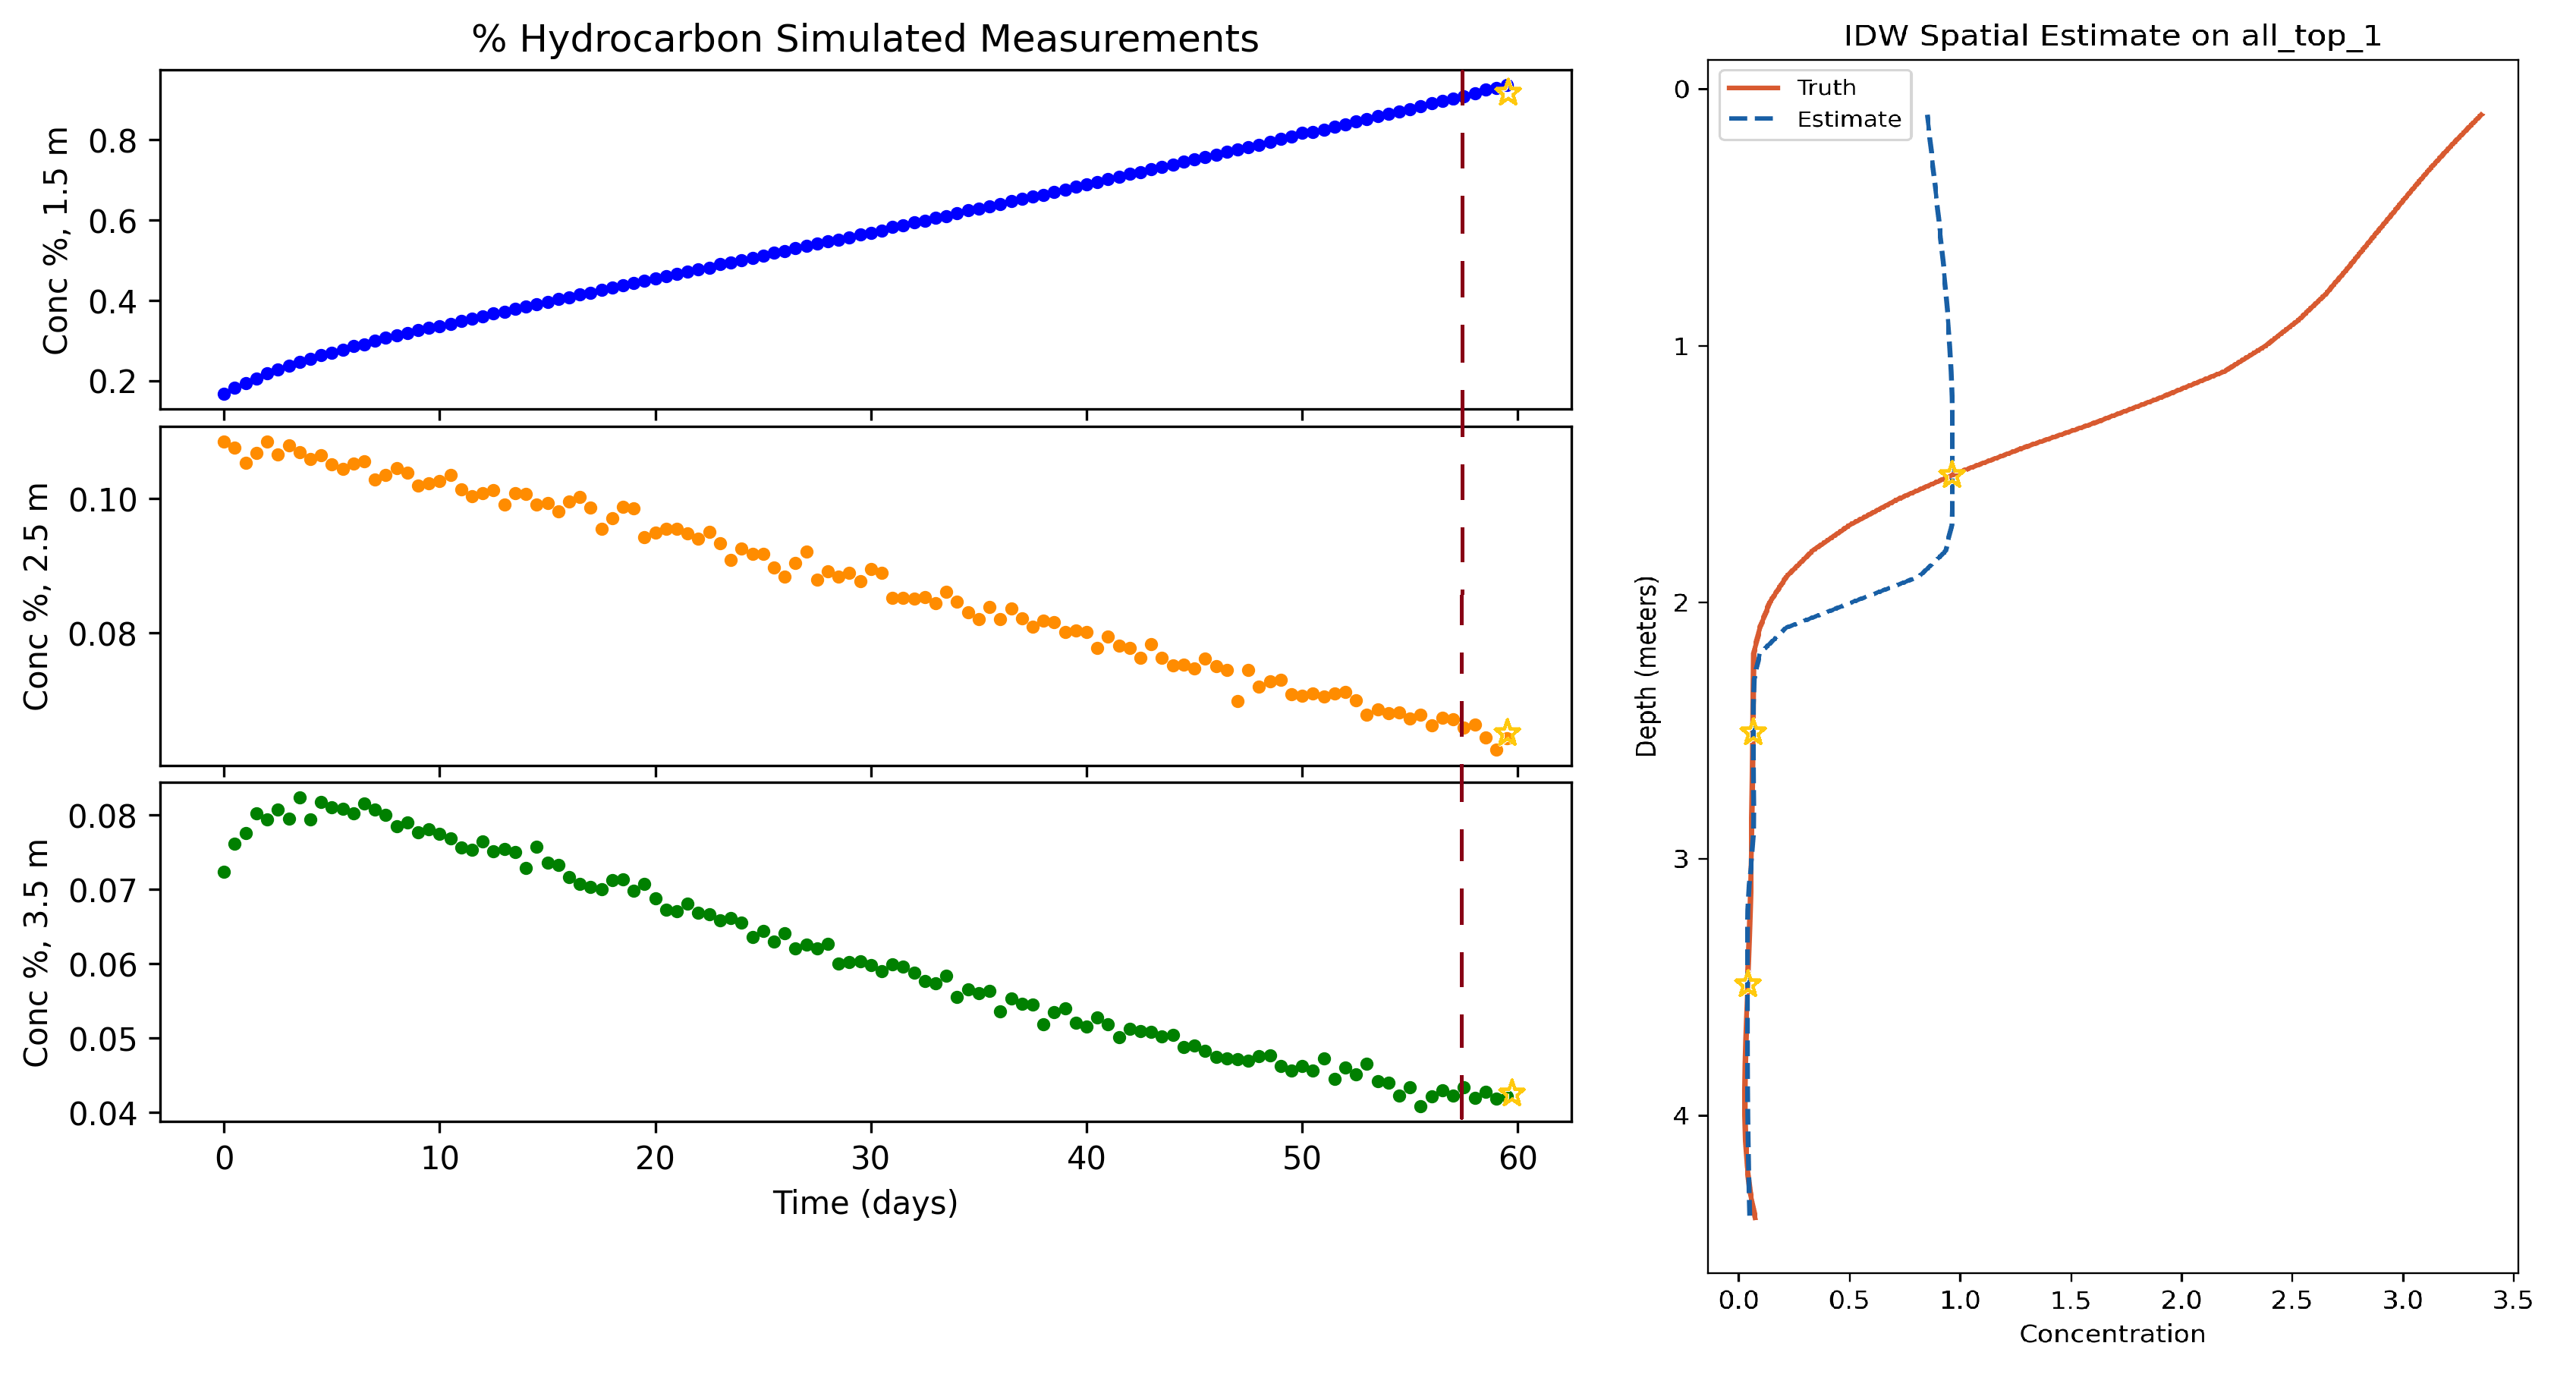
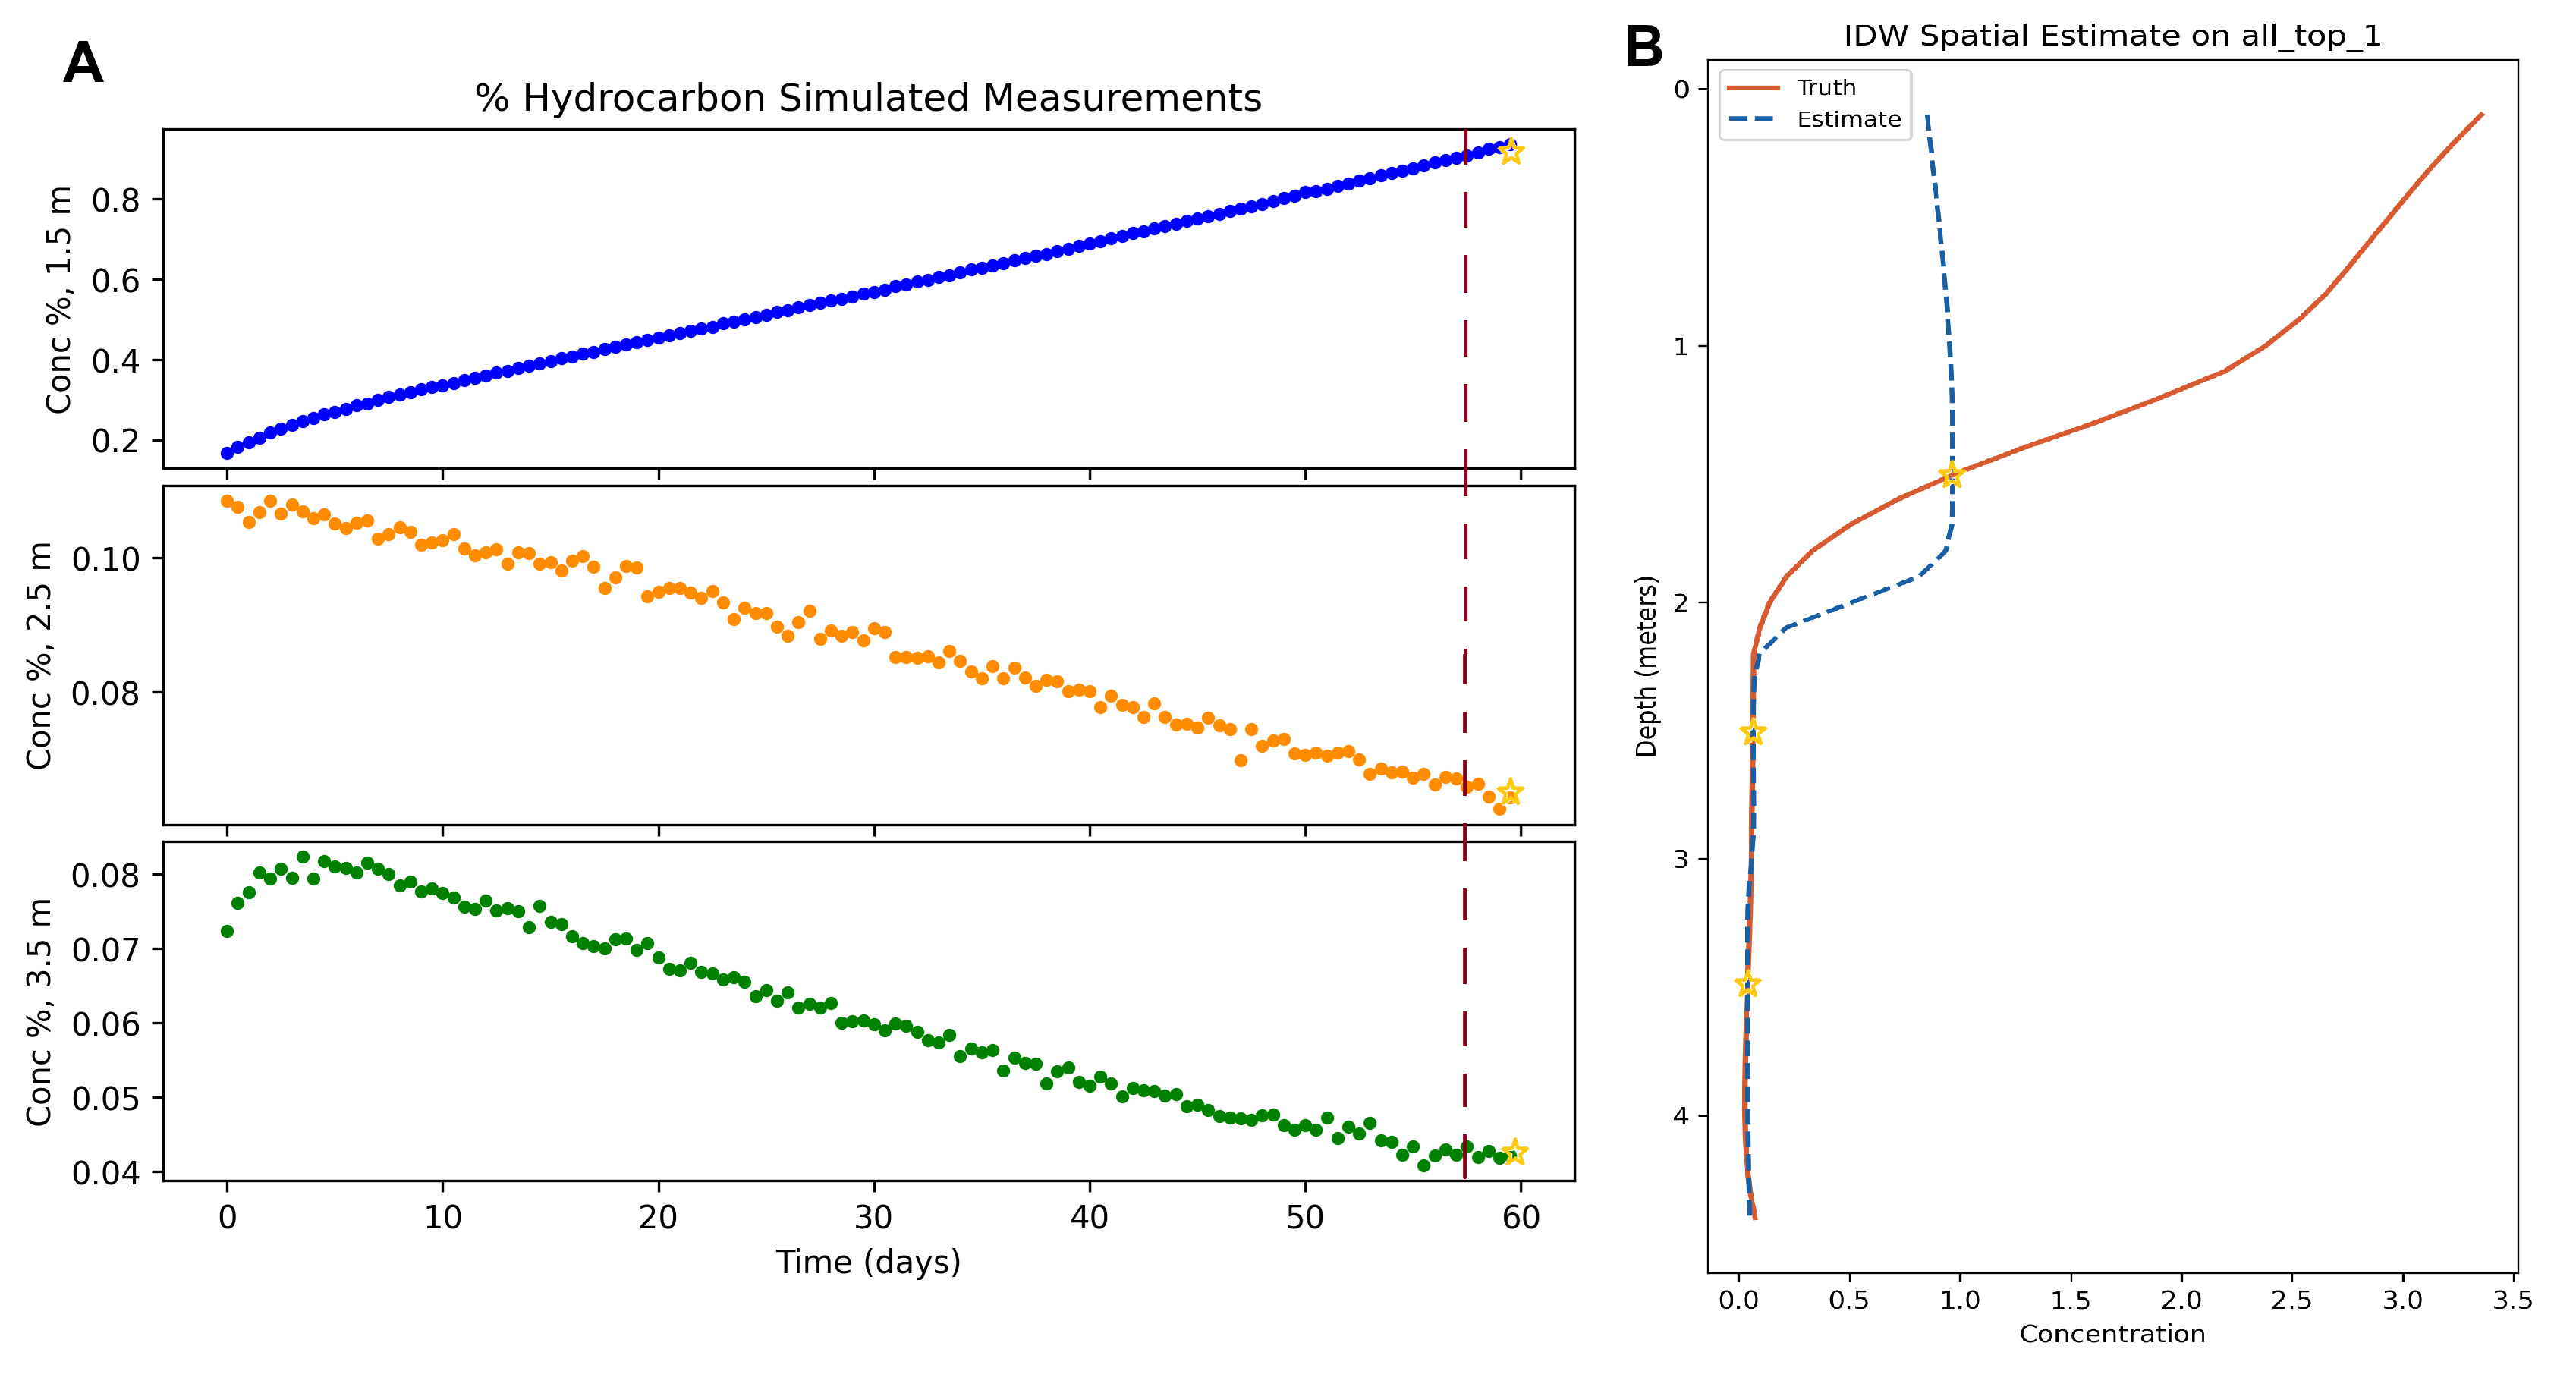
Daily save

diff --git a/chapters/4/chapter_experiments.tex b/chapters/4/chapter_experiments.tex
@@ -1,90 +1,106 @@
 \startchapter{Experimental Setup}
 \label{chapter:Exp}
 
-The spatial interpolation methods will be evaluated on two datasets. The first is a synthetic dataset produced via a simple physics-based soil simulation modelling the movement and biodegradation of hydrocarbons in the soil. This dataset will be used to evaluate the models in a variety of scenarios such as measurement noise, number of sensors, soil heterogeneity and measurement dropout. Additionally, a subset of the simulated dataset will be used to tune the hyper-parameters of all the interpolation algorithms. The second dataset uses real measurements from a polluted site in the Prairies of Canada. Due to the limited number of available data points, the results here will simply be used to validate some of the results of the simulated dataset. First, we will examine the format of the physical dataset to establish the format and context for the creation of the simulated dataset. 
+The spatial interpolation methods will be evaluated on two datasets. The first is a synthetic dataset produced via a simple physics-based soil simulation modelling the movement and biodegradation of hydrocarbons in the soil. This dataset will be used to evaluate the models in a variety of scenarios such as measurement noise, number of sensors, soil parameter noise and measurement dropout. Additionally, a subset of the simulated dataset will be used to tune the hyperparameters of the interpolation algorithms. The second dataset uses real measurements from a contaminated site in the Prairies of Canada. Due to the limited number of available data samples, the results here will simply be used to validate some of the results of the simulated dataset. First, we will examine the format of the physical dataset to establish the format and context for the creation of the simulated dataset. 
 
 
-\section{Real Data}
+\section{Real-World Data}
 \label{sec:real_data}
 
-The real measurement dataset was collected from an active biostimulation remediation site on the Canadian prairies. It consists of 27 data points acquired from 11 stake locations distributed across the contaminated area. Each stake location hosts a sensor array at three depths below the surface: 1.5~m, 2.5~m, and 3.5~m. These depths were chosen to capture the vertical extent of the PHC plume, which tends to migrate downward through the soil column under the influence of gravity and precipitation-driven leaching.
-\textcolor{red}{I need some citations here about the technology. I also need to mention concentration and explain where the mass spectometry that gets the \% and mg/kg}
+The real measurement dataset was collected from an active biostimulation remediation site on the Canadian Prairies. It consists of 27 data samples acquired from 11 measurement stake locations distributed across the contaminated area. Each stake location hosts a sensor array at 1.5~m, 2.5~m, and 3.5~m below the surface. These depths were chosen to capture the vertical extent of the PHC plume, which tends to migrate downward through the soil column under the influence of gravity and precipitation-driven leaching \cite{PHC_movement_source}.
 
-At each depth, PHC concentration is recorded continuously at 30 minute intervals. To reduce high-frequency measurement noise while preserving the underlying remediation dynamics, these raw readings are aggregated into 12-hour averages, yielding two observations per depth per day at each stake location. Each data point in the dataset therefore consists of a time series of PHC concentration measurements at three depths from a single stake location, sampled at 12-hour increments. An example of a data point can be seen below. 
+At each depth, a Beer-Lambert sensor measures the absorbed light through the air to determine a PHC concentration at 30 minute intervals \cite{beerLambertSensor}. To reduce high-frequency measurement noise while preserving the underlying remediation dynamics, these raw readings are aggregated into 12-hour averages, yielding two observations per depth per day at each stake location. Each data sample in the dataset therefore consists of a time series of PHC concentration measurements at three depths from a single stake location, sampled at 12-hour increments. An example of a data sample can be seen below. 
 
  \begin{figure}[H]
  \centering
  \includegraphics[height = 4in]{figures/real_measurements.png}
- \caption{A data sample from the real data set}
+ \caption{A sample from the real-world data set. The three plots depict the concentration of PHC as a \% of the atmosphere through a four-month time span at the three specified depths. The measurements are aggregated every 12 hours.}
  \label{fig:realMeas_intro}
  \end{figure}
 
-The duration of the time series varies considerably across data points, ranging from 30 to 250 days. This variability reflects the practical realities of field deployment: sensors were installed and occasionally decommissioned at different times throughout the remediation process, and some units experienced extended periods of dropout due to hardware faults or adverse weather conditions. As a result, the dataset is irregular with stake locations distributed non-uniformly across the site and each location contributing a different length of observational record. These characteristics make the dataset representative of the kind of incomplete, heterogeneous data that spatial interpolation methods must contend with in real remediation settings.
+The duration of the time series varies considerably across data samples, ranging from 30 to 250 days. This variability reflects the practical realities of field deployment. Sensors were installed and occasionally decommissioned at different times throughout the remediation process, and some units experienced extended periods of dropout due to hardware faults or adverse weather conditions. As a result, the dataset is irregular with stake locations distributed non-uniformly across the site and each location contributing multiple different lengths of observational records. These characteristics make the dataset representative of the kind of incomplete, heterogeneous data that spatial interpolation methods must contend with in real remediation settings.
 
 A representative sample from the dataset are shown in Figure~\ref{fig:realMeas_intro}, illustrating the range of behaviours observed across stake locations. Some locations exhibit a clear monotonic decline in PHC concentration consistent with active biostimulation, while others show more complex dynamics including periods of stagnation or transient increases, likely attributable to soil heterogeneity or localized variations in nutrient distribution.
-
 
 
 \section{Synthetic Data}
 \label{sec:synthetic_data}
 
-A synthetic data sample largely mirrors the real data in format. Each sample contains temporal data at three depths of 1.5, 2.5 and 3.5 meters with standard measurements every 12 hours. However, all of this can vary when testing the methods under a variety of conditions.
+A synthetic data sample largely mirrors the real-world data format. Each sample contains temporal data at three depths of 1.5~m, 2.5~m, and 3.5~m with standard measurements every 12 hours. However, all of these properties can vary when testing the methods under a variety of conditions.
 
-The synthetic data is made from a physics-based simulation that incorporates diffusion, advection and biodegradation of PHC concentration. The simulation operates in one-dimension through the depth of the soil to match the set-up of the stake measurements. The cell size is fixed to 0.1 meters deep per cell. The depth of the simulation is also fixed for all data points to 4.5 meters, allowing for a buffer between the lowest measurement and the boundary layer at the bottom of the simulation. The equation that governs the concentration of the contaminant is as follows: 
+The synthetic data is generated from a physics-based simulation that incorporates diffusion, advection, and biodegradation of PHC concentration. The simulation operates in one dimension through the depth of the soil column to match the setup of the single-stake measurements. The cell size is fixed at 0.1~m per cell, and the total simulation depth is fixed at 4.5~m for all data points, providing a buffer between the lowest measurement depth and the boundary layer at the bottom of the simulation domain. The forward model governing contaminant concentration is:
 
- \begin{equation}
- \label{eq:soil_model}
-    \conc(\locvar,\timevar+\Delta \timevar) = \conc(\locvar,\timevar) 
-    + \diffCoeff(\locvar) * \frac{\Delta \timevar}{2*\Delta \distvar} * (\conc(\locvar-1,\timevar) - 2*\conc(\locvar,\timevar) + \conc(\locvar+1,\timevar))
-    + \biodegCoeff(\locvar) * \conc(\locvar,\timevar)
-    + \advecCoeff(\locvar)
- \end{equation}
+\begin{equation}
+\label{eq:soil_model}
+\begin{aligned}
+    \conc(\locvar,\, \timevar + \Delta\timevar) = \; & \conc(\locvar,\, \timevar) \\
+    & + \advecCoeff(\locvar)
+        && \text{(Advection)} \\
+    & + \biodegCoeff(\locvar) \cdot \conc(\locvar,\, \timevar)
+        && \text{(Biodegradation)} \\
+    & + \diffCoeff(\locvar) \cdot \frac{\Delta\timevar}{\Delta\distvar^{2}}
+      \Bigl[
+        \conc(\locvar - \Delta\distvar,\, \timevar)
+        - 2\conc(\locvar,\, \timevar)
+        + \conc(\locvar + \Delta\distvar,\, \timevar)
+      \Bigr]
+        && \text{(Diffusion)}
+\end{aligned}
+\end{equation}
 
- \textcolor{red}{Get AI to shrink this function. Ask it to make it work on three lines with the labels on each line}
+\noindent
+where $\conc(\locvar,\,\timevar)$ is the PHC concentration (\%) at depth $\locvar$~(m) and time $\timevar$~(hours). $\advecCoeff$~(\%\,hour$^{-1}$) is a simplified lateral advection term ranging from $\bigl(-10^{-3},\;10^{-3}\bigr)$~\%\,hour$^{-1}$ \cite{AdvectionCoeff}. $\biodegCoeff$~(hour$^{-1}$) is a proportional biodegradation rate representing the natural microbial breakdown of PHC in the soil, ranging from $\bigl(-10^{-3},\;10^{-3}\bigr)$~hour$^{-1}$ \cite{biodeg}. $\diffCoeff$~(m$^{2}$\,hour$^{-1}$) is the vertical diffusion coefficient governing PHC transport between neighbouring cells, ranging from $\bigl(10^{-10},\;10^{-6}\bigr)$~m$^{2}$\,hour$^{-1}$ \cite{diffcoeff, tempCoeff}. All three soil parameters are realized as vectors of $\nSimLoc$ values, one per cell in the soil column. Five pilot-point values are drawn from the random distributions shown in Figure~\ref{fig:sim_param_dist} and assigned to depths of 0, 1.1, 2.2, 3.3, and 4.5~m; all intermediate cell values are then obtained by interpolation.
 
-Where $\conc(\locvar,\timevar+1)$ represents the concentration of PHC at location $\locvar$ and time $\timevar$ as a percentage. \advecCoeff is a simplified version of advection laterally through the soil ranging from $(-1e^{-3},1e^{-3})$ . \biodegCoeff is a proportional change to the concentration of PHC representing the biodegradation of PHC in the soil due to natural processes ranging from $(-1e^{-3}, 1e^{-3})$. \diffCoeff represents the diffusion of PHC vertically from the neighbouring cells ranging from $(1e^{-10},1e^{-6})$ All three soil parameters are realized by as a vector with \nSimLoc parameter values at each cell depth within the soil column. Five random samples are drawn from random distributions shown in \ref{fig:sim_param_dist} and are assigned to depths of 0, 1.1, 2.2, 3.3 and 4.5 meter cells. All other cells are interpolated relative to those pilot points. 
+Once the advection, biodegradation, and diffusion parameter vectors are constructed, the initial PHC concentration $\conc(\locvar,\,0)$ and boundary conditions must be specified for all \nSimLoc cells.
 
- Once, the parameter vectors of advection, biodegradation and diffusion are created the initial conditions of the concentrations $\conc(\locvar,0)$ for all $\nSimLoc$ must be drawn. 
+Four boundary condition scenarios are used in generating the simulated dataset. A PHC source at both the top and bottom of the soil column, a top-only source, a bottom-only source, and no sources. These cases represent the principal real-world configurations in which PHC originates from the surface, the water table, both, or neither \cite{hydrocarbon_in_soil_old,PHC_in_soil_newer}. Source boundary concentrations are drawn from a normal distribution with a mean of 3\% and a standard deviation of 0.5\%; all other initial PHC concentrations are drawn with a mean of 0.12\% and a standard deviation of 0.04\%, with a lower threshold of 0\%. These values are derived from the real-world data in section \ref{sec:real_data} and \cite{biodeg,oil_conc_soil}. As with the soil parameters, values are assigned at the pilot point locations and interpolated across all remaining \nSimLoc locations.
 
- Four different boundary condition scenarios were used in the generation of the simulated dataset. PHC sources at the top and bottom of the soil column, top only source, bottom only source and no source. This represents the majority of the real world cases where the PHC source \textcolor{red}{I need a citation here} is from the top, the water table, both or no direct source. Sources are drawn from a normal distribution centered at 3\% with a std of 0.5 and all other PHC initial conditions are drawn with a mean of 0.12\% and a std of 0.04 with a threshold at 0\%. Once again these values are drawn at locations of 0, 1.1, 2.2, 3.3 and 4.5 meter depths and all other $\nSimLoc$ locations are interpolated in between. 
+\begin{figure}[!h]
+    \centering
+    \includegraphics[height=5in]{figures/param_dist.png}
+    \caption{Sample distributions of the soil parameters, PHC source boundary conditions,
+             and PHC initial values.}
+    \label{fig:sim_param_dist}
+\end{figure}
 
-\textcolor{red}{Add the drawn distributions of the parameters in the dataset so far below each of these.}
+With all soil parameters and initial conditions randomly drawn from the distributions described above, each realization constitutes a single soil sample in the simulated dataset. Example plots are shown in Figure~\ref{fig:sim_ex}, illustrating the style of visualisation used throughout the results section to compare model outputs.
 
-  \begin{figure}[!h]
- \centering
- \includegraphics[height = 5in]{figures/param_dist.png}
- \caption{Sample distributions of the soil parameters, PHC source boundary conditions and PHC initial values}
- \label{fig:sim_param_dist}
- \end{figure} 
+\begin{figure}[H]
+    \centering
+    \includegraphics[width=6in]{figures/sim_data_sample.png}
+    \caption{A sample of simulated data. (a) PHC concentration through time across all simulated cells. Cell size is 0.1 meters deep and 12 hours wide. (b) Sensor-format time series, equivalent to the real-world in figure \ref{fig:realMeas_intro}. Functions as the input to the spatial interpolation methods(c) Spatial distribution of the contaminant plume at the end of the simulation, representing the output the methods aim to reconstruct.}
+    \label{fig:sim_ex}
+\end{figure}
 
- With all the soil parameters and initial conditions randomly drawn from the distributions above this creates the set up for a single soil sample in the simulated dataset. Sample plots can be seen below in \ref{fig:sim_ex} that show the styles of plots that will be used in the results section to compare the models. 
-
-
-
- \begin{figure}[H]
- \centering
- \includegraphics[height = 4in]{figures/simulated_intro.png}
- \caption{A sample of simulated data. a is the same format as above in figure \ref{fig:realMeas_intro} representing what the sensors would be seeing in the simulated environment. b is the concentration of the hydrocarbons through time at all simulated cells. The cell size is 0.1 meters. c is the resulting spatial distribution of the plume after the simulation is complete. It is an example of the shape that these methods are trying to produce.}
- \label{fig:sim_ex}
- \end{figure}   
-
- The size of the simulated data set contains 200 samples split equally into the four source locations of both, bottom, top, neither. The true distributions of each of the parameters can be seen underneath of the desired drawn distributions in figure \ref{fig:sim_param_dist}.
+The simulated dataset contains 200 samples split equally among the four source configurations: both, bottom only, top only, and neither. 
 
 
- \section{Method Setup}
+ \section{Hyperparameter Tuning}
 
- Below, the specific set-ups of all the methods will be outlined with regards to the problem set up and a single sample data point. 
+ Below, the specific set-ups of all the methods will be outlined with regards to the problem set up and a single data sample.
 
  \subsection{Inverse Distance Weighting}
 
- So IDW is purely distance-based interpolator and does not incorporate the temporal aspect of the data sample into its spatial interpolation. However, as explained in section \ref{sec:background_idw} a modified version of IDW is used to average the last $w$ measurements at each location in the data sample. The other hyper parameter in the IDW algorithm is $p$ the power of the distance relationship. Hyper parameter tuning was not extensive for this algorithm, since they are quite simple and it is simply the baseline algorithm for the others. $p$ was tested from 1-4 and 4 slightly outperformed the others however, the results are negligible. The averaging window $a$ was tested from 1-10 of the last data samples. $a=4$ was selected due to a nearly negligible gain over the others. In the example in figure \ref{fig:idw_example} the noise in the measurements is minimal so the averaged value used does not change the result very much. However, in other tests where the measurement noise is larger, this averaging window can greatly help. 
 
- \begin{figure}[!h]
+
+  \begin{figure}[!h]
  \centering
  \includegraphics[width = 7in]{figures/idw_temporal_example.png}
- \caption{Example of IDW working on a datapoint. The IDW algorithm averages all the measurements in the averaging window depicted by the red line in A. The values are then fed into the IDW algorithm to create the spatial estimate depicted by the blue line in b. }
+ \caption{Example of IDW working on a data sample. The IDW algorithm averages all the measurements in the averaging window depicted by the red line in A. The values are then fed into the IDW algorithm to create the spatial estimate depicted by the blue line in B. }
  \label{fig:idw_example}
  \end{figure} 
+
+ Hyperparameter tuning was not extensive for this algorithm, since they are quite simple and it is simply the baseline algorithm for the others. A grid search of $\idwpow$ and $\idwwin$ tested at 1, 2 and 4 and 1, 3 and 5 respectively. The results can be found in figure \ref{fig:idw_hyperp}
+
+   \begin{figure}[!h]
+ \centering
+ \includegraphics[width = 4in]{figures/idw_gridsearch.png}
+ \caption{Hyperparameter search for inverse distance weighting parameters $\idwpow$ and $\idwwin$}
+ \label{fig:idw_hyperp}
+ \end{figure} 
+ n thers however, the results are negligible. The averaging window $a$ was tested from 1-10 of the last data samples. $a=4$ was selected due to a nearly negligible gain over the others. In the example in figure \ref{fig:idw_example} the noise in the measurements is minimal so the averaged value used does not change the result very much. However, in other tests where the measurement noise is larger, this averaging window can greatly help. 
+
+
 
 
 

diff --git a/chapters/2/chapter_problem.tex b/chapters/2/chapter_problem.tex
@@ -4,7 +4,7 @@
 %Mathematical definition of variables
 \newcommand{\timevar}{t}
 \newcommand{\meas}{y}
-\newcommand{\locvar}{s}
+\newcommand{\locvar}{z}
 \newcommand{\est}{\hat{y}}
 \newcommand{\nSampLoc}{N}
 \newcommand{\nSimLoc}{n}
@@ -12,20 +12,22 @@
 \newcommand{\param}{x}
 \newcommand{\conc}{u}
 \newcommand{\diffCoeff}{D}
-\newcommand{\advecCoeff}{A}
-\newcommand{\biodegCoeff}{B}
+\newcommand{\advecCoeff}{\ensuremath{\alpha}}
+\newcommand{\biodegCoeff}{\ensuremath{\beta}}
 \newcommand{\distvar}{d}
+\newcommand{\idwpow}{p}
+\newcommand{\idwwin}{w}
 
 This chapter establishes the mathematical framework underlying the spatial interpolation problem studied in this thesis. Each method is situated within the context of soil contaminant transport and remediation. The core task is to estimate the spatial distribution of a petrochemical contaminant plume from a sparse, noise set of measurements collected across space and time. Each method considered approaches this task from a different theoretical perspective, ranging from purely geometric interpolation to physics-informed parameter estimation.
 
-Measurements $\meas(\locvar,\timevar)$ are acquired at a spatial location $\locvar$ and time $\timevar$, where $\locvar$ may be one, two, or three-dimensional. Each evaluated method produces an estimate $\est(\locvar_o,\timevar)$ at unmeasured locations $\locvar_o$, which is compared against available ground truth via the Mean Squared Error (MSE), $(\meas(\locvar_o,\timevar) - \est(\locvar_o,\timevar))^2$, at a given time $\timevar$.  In practice, a continuous spatial ground truth is only available when working with synthetic data. For real-world datasets, leave-$n$-out cross-validation is employed as a substitute. It is also worth noting that $\timevar$ typically corresponds to the current or most recent time step, as remediators are primarily concerned with the present-day plume distribution. Within the broader spatial interpolation literature, $\meas$ is an unconventional choice of notation; however, it is adopted here because it aligns naturally with the parameter estimation and data assimilation formulations introduced later, where this notation is standard.
+Measurements $\meas(\locvar,\timevar)$ are acquired at a spatial location $\locvar$ and time $\timevar$. The variable $\locvar$ was used since our problem is reduced to one-dimension in depth and $\locvar$ is a common notation for depth. Each evaluated method produces an estimate $\est(\locvar_o,\timevar)$ at unmeasured depths $\locvar_o$, which is compared against available ground truth via the Mean Squared Error (MSE), $(\meas(\locvar_o,\timevar) - \est(\locvar_o,\timevar))^2$, at a given time $\timevar$.  In practice, a continuous spatial ground truth is only available when working with synthetic data. For real-world datasets, leave-$n$-out cross-validation is employed as a substitute. It is also worth noting that $\timevar$ typically corresponds to the current or most recent time step, as remediators are primarily concerned with the present-day plume distribution. Within the broader spatial interpolation literature, $\meas$ is an unconventional choice of notation; however, it is adopted here because it aligns naturally with the parameter estimation and data assimilation formulations introduced later, where this notation is standard.
 
 \section{Inverse Distance Weighting}
 \label{sec:background_idw}
 
-Inverse Distance Weighting is the simplest method evaluated in this thesis and serves as a baseline against which the more sophisticated approaches are benchmarked. It relies solely on the geometric relationship between measurement locations and the target estimation point, making no assumptions about the underlying physical process and only minimally exploiting the temporal structure of the data. Despite its simplicity, IDW provides an important reference point for understanding when richer information — such as temporal dynamics or physics-based constraints — meaningfully improves estimation performance, and when the additional complexity of those approaches offers little advantage over a naive geometric approach.
+Inverse Distance Weighting is the simplest method evaluated in this thesis and serves as a baseline against which the more sophisticated approaches are benchmarked. It relies solely on the geometric relationship between measurement locations and the target estimation point, making no assumptions about the underlying physical process and only minimally exploiting the temporal structure of the data. Despite its simplicity, IDW provides an important reference point for understanding when temporal dynamics and physics-based constraints meaningfully improve estimation performance, and when the additional complexity of those approaches offers little advantage over a naive geometric approach.
 
-Standard IDW computes a weighted average over all $\nSampLoc$ measurement points  at a given time $\timevar$. The weight of each measurement is relative to the inverse of the distance between the measurement location and the target point $\locvar_o$ raised to a user-specified power.
+Standard IDW computes a weighted average over all $\nSampLoc$ measurement points  at a given time $\timevar$. The weight of each measurement is relative to the inverse of the distance between the measurement depth and the target depth $\locvar_o$ raised to a user-specified power.
 
  \begin{equation}
  \label{eq:idw}
@@ -35,7 +37,7 @@ Standard IDW computes a weighted average over all $\nSampLoc$ measurement points
     \qquad w_i = \frac{1}{d(\locvar_o,\locvar_i)^p}
  \end{equation}
  
-A minor modification is introduced to tailor IDW to the time-series element of this problem. Rather than using only the instantaneous measurement $\meas(\locvar_i,\timevar)$ at each location, the algorithm is supplied with the average of the most recent $w$ observations at that location. This sliding-window average serves to dampen measurement noise without fundamentally altering the character of the algorithm. In summary, IDW is governed by two hyperparameters: $p$, the power of the distance relationship and $w$, the width of the temporal averaging window.
+A minor modification is introduced to tailor IDW to the time-series element of this problem. Rather than using only the instantaneous measurement $\meas(\locvar_i,\timevar)$ at each location, the algorithm is supplied with the average of the most recent $\idwwin$ observations at that location. This windowed average serves to dampen measurement noise without fundamentally altering the character of the algorithm. In summary, IDW uses two hyperparameters $\idwpow$, the power of the distance relationship and $\idwwin$, the width of the temporal averaging window.
 
 \section{Kriging} 
 \label{sec:background_kriging}
@@ -134,7 +136,7 @@ At each iteration, GLM linearizes the forward model $M$ around the current param
    J_{ij} = \frac{\partial \est(\locvar_i, t)}{\partial \param_j}\Bigg|_{\param^{(k)}}
 \end{equation}
 
-where the $(i,j)$ entry gives the sensitivity of the model output at location $\locvar_i$ and time $t$ to a perturbation in the $j$-th parameter. In PEST, this Jacobian is estimated by finite differences, requiring one forward model run per parameter.
+where the $(i,j)$ entry gives the sensitivity of the model output at depth $\locvar_i$ and time $t$ to a perturbation in the $j$-th parameter. In PEST, this Jacobian is estimated by finite differences, requiring one forward model run per parameter.
 
 Given the Jacobian, the parameter update is computed as:
 

diff --git a/chapters/1/chapter_intro.tex b/chapters/1/chapter_intro.tex
@@ -12,9 +12,6 @@ The spatial interpolation methods that will be compared are Inverse Distance Wei
 
 Each method is evaluated on two datasets. A synthetic soil contaminant dataset with a dense ground truth is used to tune hyperparameters. Additionally, robustness to measurement noise, soil heterogeneity, sensor dropout, and spatial and temporal sparsity will be assessed with modifications to the synthetic data. Building on this controlled evaluation, the methods are then applied to real sensor data collected in the Canadian prairies using leave-$n$-out cross-validation.
 
+The results demonstrate that the Iterative Ensemble Smoother (IES) is the preferred method when a computationally feasible forward model is available. IES outperformed all other methods in the presence of measurement noise, achieving a 47\% reduction in MSE compared to the baseline and an 11\% reduction compared to the next best method. Additionally, it proved the most robust under sensor dropout scenarios, maintaining accurate plume reconstruction with as few as 2 active sensors. Furthermore, the ensemble-based formulation provides remediators with a full distribution of plausible subsurface scenarios rather than a single deterministic estimate, which is a meaningful practical advantage for treatment planning. The primary trade-off is computational cost is that IES required approximately 2.6× more runtime than the next best parameter estimation method and a million times more than IDW. For sites where this overhead is acceptable, IES is the clear recommendation.
 
-
-\textcolor{red}{Need a summary of the results and a roadmap for the sections here still} 
-
-
-% \input chapters/1/intro_how_to
+The remainder of this thesis is structured as follows. Chapter 2 presents the mathematical background of the five interpolation methods, detailing their origins, underlying frameworks, and core assumptions. Chapter 3 reviews existing literature on comparisons of these methods and their application to soil contamination problems. Chapter 4 describes the experimental setup, including the synthetic and real-world datasets and the specific implementation of each method. Chapter 5 presents the results of the synthetic evaluation, hyperparameter tuning, and real-world cross-validation experiments. Chapter 6 concludes with a discussion of findings, limitations, and directions for future work.